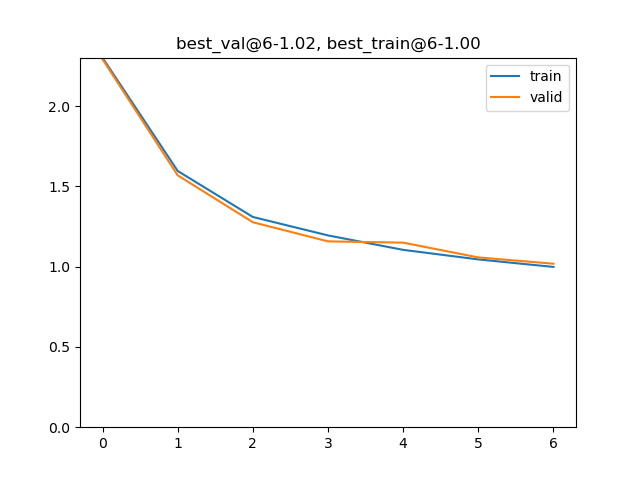
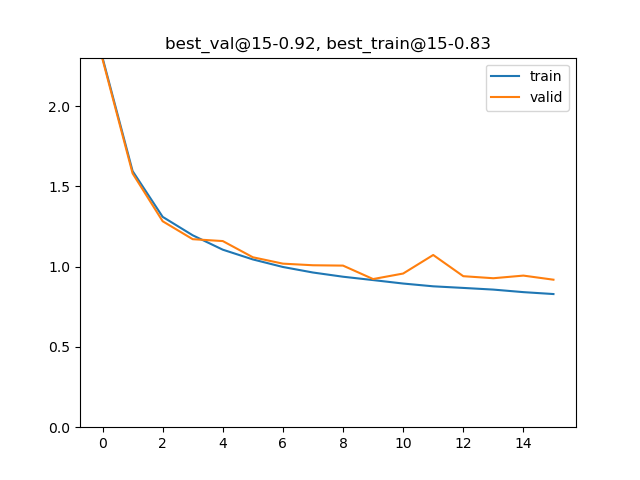
tweaks

diff --git a/examples/train_cifar10.py b/examples/train_cifar10.py
@@ -35,9 +35,9 @@ parser.add_argument('--seed', type=int, default=1, metavar='S',
                     help='random seed (default: 1)')
 parser.add_argument('--log-interval', type=int, default=100, metavar='N',
                     help='how many batches to wait before logging status')
-parser.add_argument('--noise', type=int, default=0,
+parser.add_argument('--noise', type=float, default=5e-2,
                     help='noise or no noise 0-1')
-parser.add_argument('--weight_norm', type=int, default=0,
+parser.add_argument('--weight_norm', type=int, default=1,
                     help='norm or no weight norm 0-1')
 args = parser.parse_args()
 args.cuda = not args.no_cuda and torch.cuda.is_available()
@@ -118,7 +118,7 @@ class Net(nn.Module):
         print(self)
 
     def net2net_deeper(self):
-        s = deeper(self.conv1, nn.ReLU, bnorm_flag=False, weight_norm=args.weight_norm, noise_var=args.noise)
+        s = deeper(self.conv1, nn.ReLU, bnorm_flag=True, weight_norm=args.weight_norm, noise_var=args.noise)
         self.conv1 = s
         s = deeper(self.conv2, nn.ReLU, bnorm_flag=True, weight_norm=args.weight_norm, noise_var=args.noise)
         self.conv2 = s
@@ -165,11 +165,11 @@ class Net(nn.Module):
         print(self)
 
     def net2net_deeper_nononline(self):
-        s = deeper(self.conv1, None, bnorm_flag=False, weight_norm=args.weight_norm, noise_var=args.noise)
+        s = deeper(self.conv1, None, bnorm_flag=True, weight_norm=args.weight_norm, noise_var=args.noise)
         self.conv1 = s
-        s = deeper(self.conv2, None, bnorm_flag=False, weight_norm=args.weight_norm, noise_var=args.noise)
+        s = deeper(self.conv2, None, bnorm_flag=True, weight_norm=args.weight_norm, noise_var=args.noise)
         self.conv2 = s
-        s = deeper(self.conv3, None, bnorm_flag=False, weight_norm=args.weight_norm, noise_var=args.noise)
+        s = deeper(self.conv3, None, bnorm_flag=True, weight_norm=args.weight_norm, noise_var=args.noise)
         self.conv3 = s
         print(self)
 
@@ -319,6 +319,12 @@ if __name__ == "__main__":
     print("\n\n > Wider teacher training ... ")
     model = copy.deepcopy(model_)
     model.define_wider()
+    model.cuda()
+    plot = run_training(model, 'Deeper_teacher_', args.epochs + 1)
+
+    print("\n\n > Deeper teacher training ... ")
+    model = copy.deepcopy(model_)   
+    model.define_deeper()
     model.cuda()
     plot = run_training(model, 'Deeper_teacher_', args.epochs + 1)
 

diff --git a/net2net.py b/net2net.py
@@ -2,8 +2,7 @@ import torch as th
 import numpy as np
 import numpy
 
-def wider(m1, m2, new_width, bnorm=None, out_size=None, noise_var=5e-2,
-          random_init=False, weight_norm=True):
+def wider(m1, m2, new_width, bnorm=None, out_size=None, noise_var=5e-2, weight_norm=True):
     """
     Convert m1 layer to its wider version by adapthing next weight layer and
     possible batch norm layer in btw.
@@ -16,8 +15,6 @@ def wider(m1, m2, new_width, bnorm=None, out_size=None, noise_var=5e-2,
             is 3rd dim size of the output feature map of m1. Used to compute
             the matching Linear layer size
         noise (bool, True) - add a slight noise to break symmetry btw weights.
-        random_init (optional, True) - if True, new weights are initialized
-            randomly.
         weight_norm (optional, True) - If True, weights are normalized before
             transfering.
     """
@@ -80,6 +77,11 @@ def wider(m1, m2, new_width, bnorm=None, out_size=None, noise_var=5e-2,
 
                 nweight.narrow(0, 0, old_width).copy_(bnorm.weight.data)
                 nbias.narrow(0, 0, old_width).copy_(bnorm.bias.data)
+
+        if weight_norm:
+            for i in range(old_width):
+                norm = w1.select(0, i).norm()
+                w1.select(0, i).div_(norm)
 
         # replicate weights randomly, instead of padding zero simply, as the latter is too sparse
         tracking = dict()
